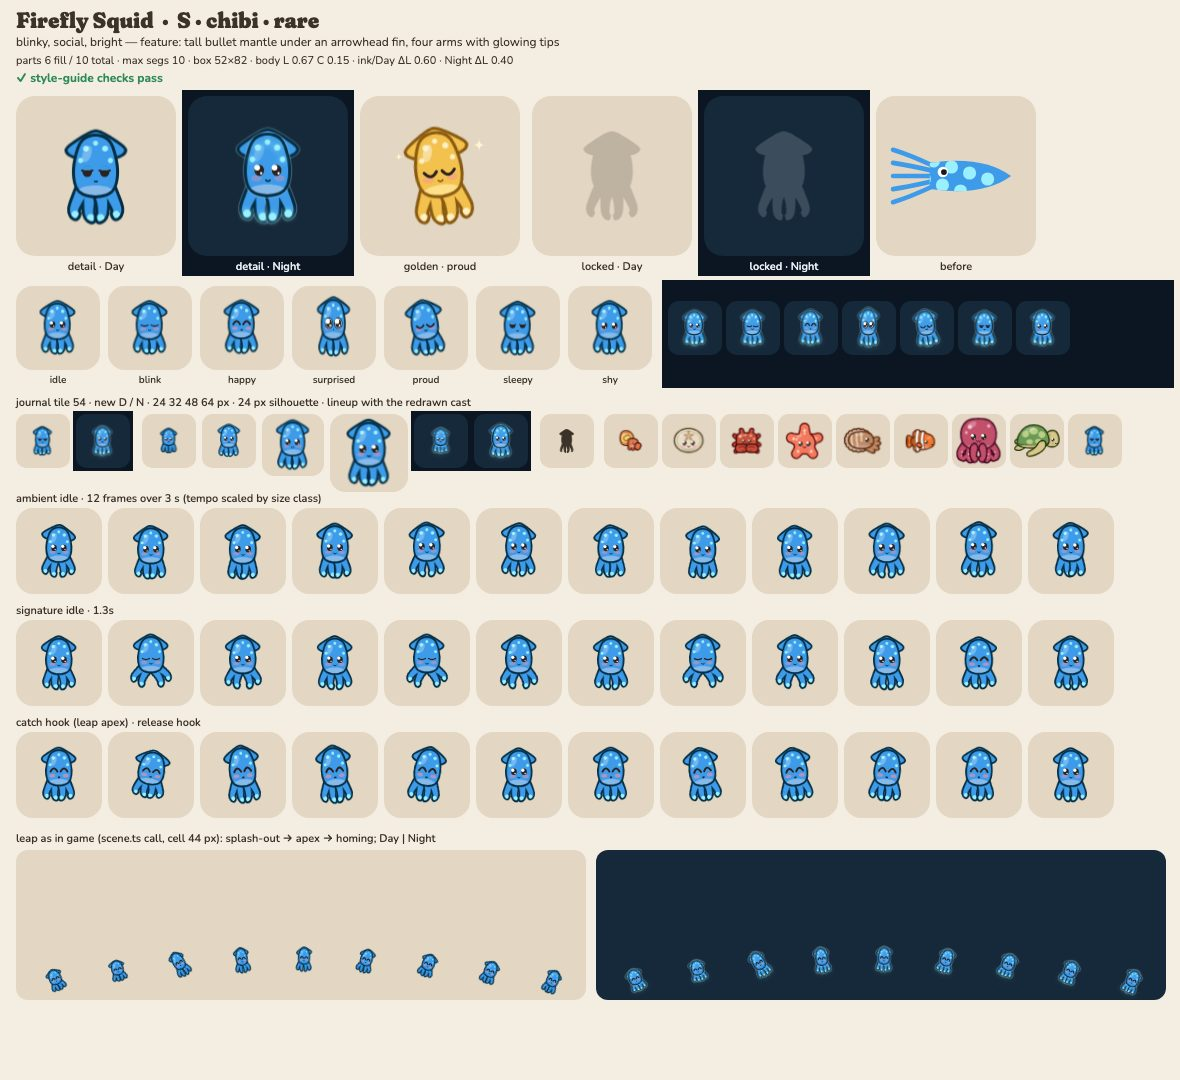
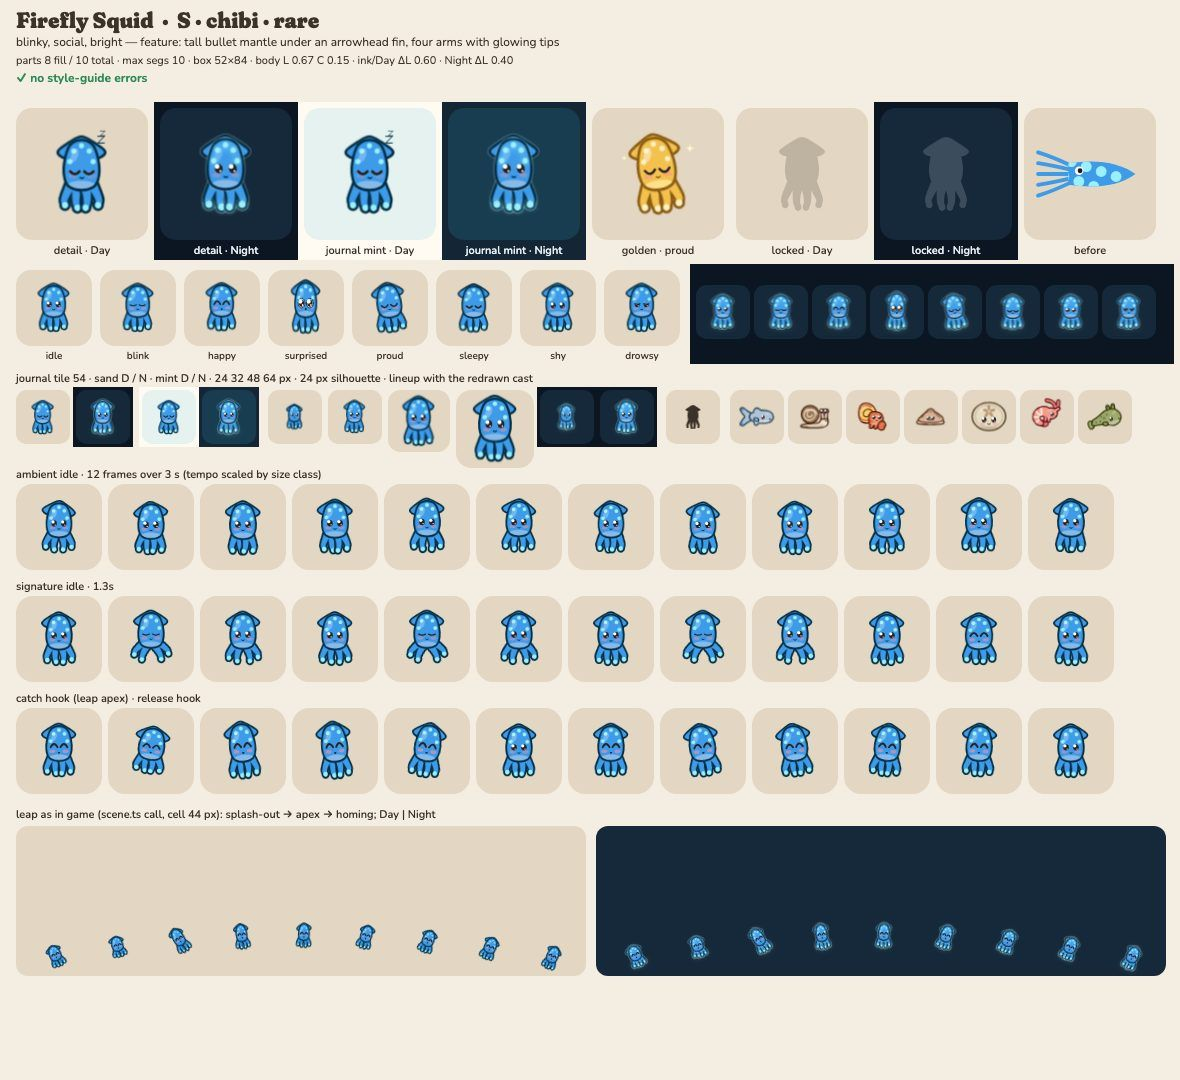
art: firefly B fixes — arm-tip light beads that read on Day (CRITIQUE-1)
render: firefly squid, round 2. The four arm tips are now outlined light-organ beads (#9BF0FF in
an ink ring), visible on Day and glowing on Night; the five mantle photophores grow to 6+ units
(R18W). Day sleepy is the kit's new contented face.
Lint ✓. Closest IoU combjelly/firefly 0.68, firefly/moonjelly 0.59.

diff --git a/src/render/art/species/firefly.ts b/src/render/art/species/firefly.ts
@@ -45,7 +45,8 @@ const armIn = tube([
   [-4, 37, 3.4],
 ]);
 const mirror = (d: string) => xform(d, { sx: -1 });
-const tips = (sx: number) => join(circle(-19 * sx, 34, 3.6), circle(-4.5 * sx, 37, 3.6));
+// lit arm tips: outlined light-organ beads, so they read on Day too (CRITIQUE-1), glow on Night
+const tips = (sx: number) => join(circle(-19 * sx, 35, 3.8), circle(-4.5 * sx, 38, 3.8));
 
 export default defineArt({
   id: 'firefly',
@@ -62,7 +63,7 @@ export default defineArt({
       parts: [
         { d: armOut, role: 'body' },
         { d: armIn, role: 'body' },
-        { d: tips(1), role: 'light', kind: 'pattern' },
+        { d: tips(1), role: 'light' },
       ],
     },
     {
@@ -71,7 +72,7 @@ export default defineArt({
       parts: [
         { d: mirror(armOut), role: 'body' },
         { d: mirror(armIn), role: 'body' },
-        { d: tips(-1), role: 'light', kind: 'pattern' },
+        { d: tips(-1), role: 'light' },
       ],
     },
     {
@@ -81,11 +82,11 @@ export default defineArt({
         // a few photophore dots on the upper mantle, clear of the face
         {
           d: join(
-            circle(-9, -27, 2.8),
-            circle(9, -27, 2.8),
-            circle(0, -32, 2.4),
-            circle(-14, -16, 2.4),
-            circle(14, -16, 2.4),
+            circle(-9, -27, 3.1),
+            circle(9, -27, 3.1),
+            circle(0, -33, 3.1),
+            circle(-13.5, -15, 3.1),
+            circle(13.5, -15, 3.1),
           ),
           role: 'light',
           kind: 'pattern',
